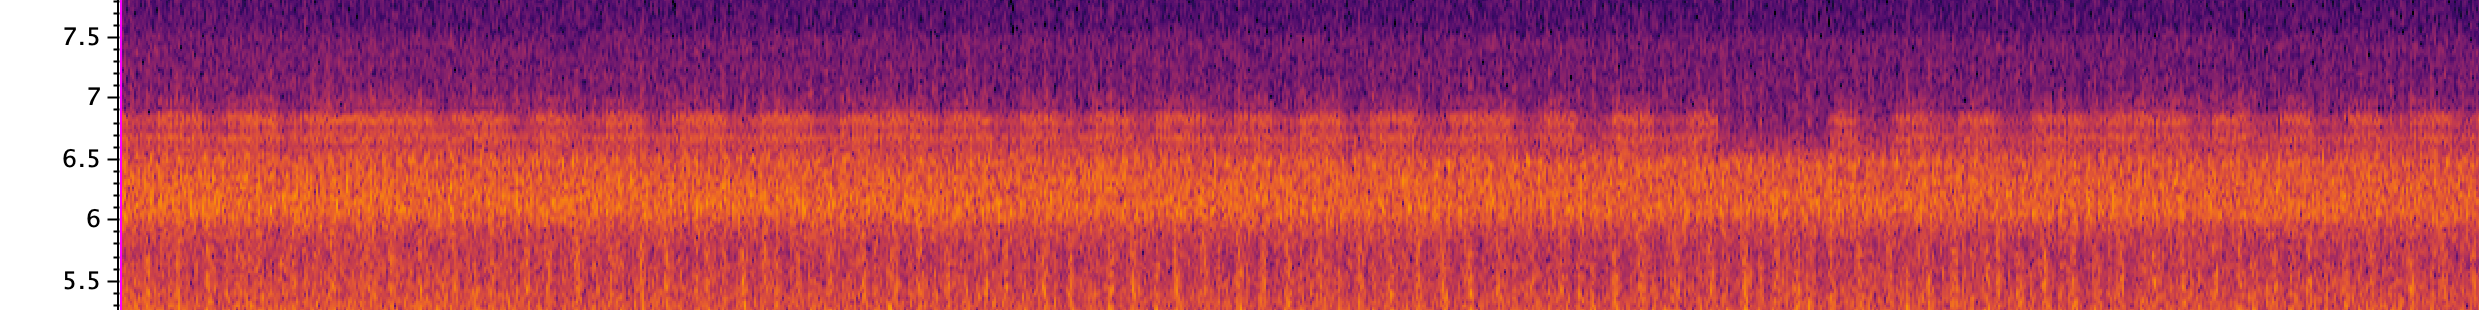
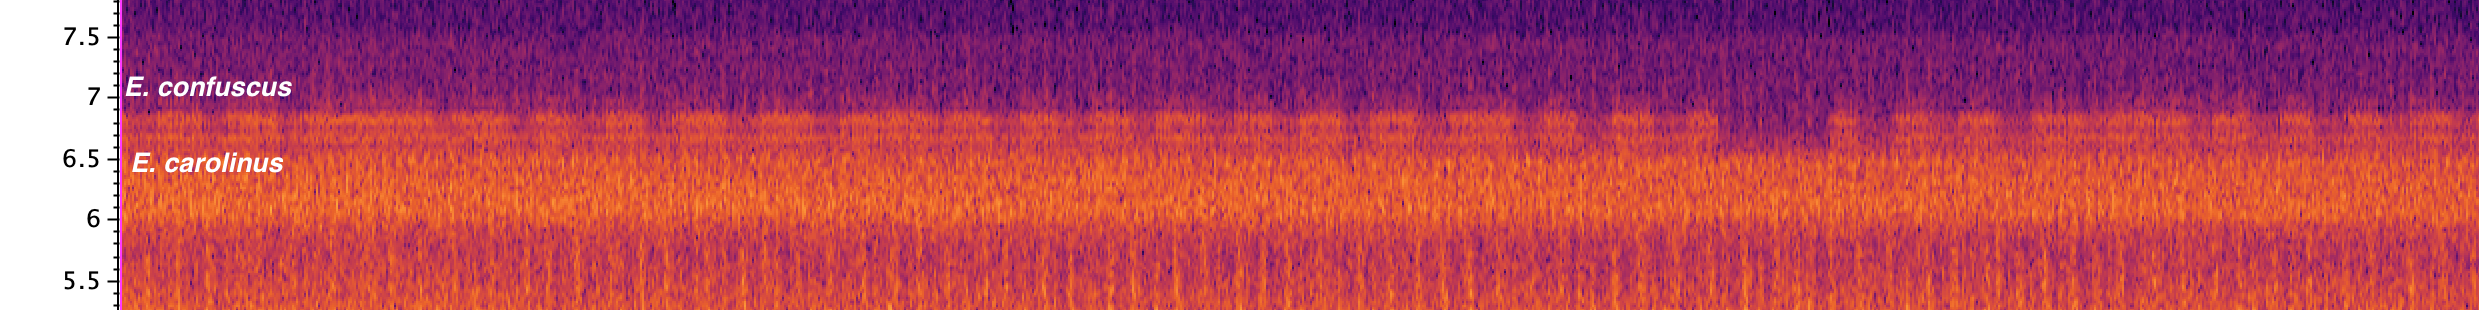
Built site for gh-pages

diff --git a/ID Blog.html b/ID Blog.html
@@ -370,78 +370,78 @@ ul.task-list li input[type="checkbox"] {
 
 
 <p><strong><code>*audio coming soon*</code></strong></p>
-<p>Orthopterans are deceivingly difficult to identify by sound. They are easy to annotate, because often their songs carry across an entire recording when viewed in sound analysis software like RavenPro, and there is often only 1-2 species occupying a given frequency niche (less noise and other taxa vocalizing at night). Species identification, however, is a different story. Unlike birds, many orthopterans seemingly share the same song. Between like-species the only identifiable information is typically buried in the frequency range, note morphology, chirp rate, or pulse rate of the species. I found it quite difficult to find this information in a single location. Rather, bioacoustics information for orthopterans was spread across different online resources.</p>
-<p>My hope is that this page will act as a resource for annotators on this project. In addition, this page is a collection of supported notes used to identify like-sounding species in eastern Texas for others to use.</p>
+<p>Orthopterans are deceivingly difficult to identify by sound. They are easy to annotate, because often their songs carry across an entire recording when viewed in sound analysis software like RavenPro. At least in our recording for eastern Texas, there are often only 1-2 species occupying a given frequency niche (less noise and other taxa vocalizing at night). Species identification, however, is a different story. Unlike birds, many orthopterans seemingly share the same song. Between like-species the only identifiable information is typically buried in the frequency range, note morphology, chirp rate, or pulse rate of the species. I found it quite difficult to find this information in a single location. Rather, bioacoustics information for Orthoptera was spread across different online resources.</p>
+<p>My hope is that this page will act as a resource for annotators on this project. The page is a simplified collection of my notes supported by other resources which are used to identify like-sounding Orthoptera species in eastern Texas.</p>
 <p><em>Note: mp3 examples coming soon. Embedding audio into Quarto websites is weird, and maybe impossible? TBD.</em></p>
 <section id="trilling-oecanthus-neoscapteriscus-borellii" class="level1">
 <h1>Trilling <em>Oecanthus</em> | <em>Neoscapteriscus borellii</em></h1>
-<p><em>N. borelli</em> (Southern mole cricket) and trilling <em>Oecanthus</em> (tree crickets) below 3 kHz should always be included as the alternative ID and vice versa. For the purposes of this project they are too similar to reliably provide a single ID, and they have very little information available that separates the two species at the resolution that we work with.</p>
-<p><em>Oecanthus</em> should be much more common than <em>N. borelli</em> . There are more species and therefore a higher probability for this genus to occur. Here are some clues that it might be <em>N. borelli</em>:</p>
-<p><em>N. borelli</em> is somewhat frog-like, and sounds like a “small mower” on the woodland floor or is described as bass-heavy. <em>Oecanthus</em> is more chime-like and melodic. <em>Oecanthus</em> will often chorus in a continuous trill at a standard frequency. Multiple <em>N. borelli</em> might call at once, but with distinct differences likely present. This is due to the way that they project their calls—the morphology of their burrows act as a bugle for their calls to project across the soundscape.</p>
-<p>According to current documentation, <em>N. borelli</em> will not deviate from a carrier frequency of 2.5-2.7 kHz. The latter is not helpful since <em>Oecanthus exclamationis</em> occupies this frequency range as well. Likewise, the pulse rates differ but our recordings are not of high enough resolution to parse apart most pulse rates in trills (~50-70 p/ch).&nbsp;</p>
+<p><strong>Just a refresher that the annotation tables for this project are set up with a Annotation column which gets the primary ID, and a Notes column which gets the secondary ID (if applicable).</strong></p>
+<p><em>N. borelli</em> (Southern mole cricket) and trilling <em>Oecanthus</em> (tree crickets) below 3 kHz should always be included as the alternative ID and vice versa. For the purposes of this project their song is too similar to reliably provide a single ID, and they have very little information available that separates the two species at the resolution that we work with.</p>
+<p>Trilling <em>Oecanthus</em> is much more common than <em>N. borelli</em> in the project recordings and should be receiving the primary ID most of the time. There are many co-occurring species in genus Oecanthus, each with minor differences in their song. Regardless, here are some clues that <em>N. borelli</em> could be singing:</p>
+<p><em>N. borelli</em> is somewhat frog-like, and sounds like a “small mower” on the woodland floor or is described as very bass-heavy. <em>Oecanthus</em> is more chime-like and melodic, however <em>O. exclamationis</em> does sound quite bass-heavy to me, but not as much as <em>N. borelli</em> . <em>Oecanthus</em> will often chorus in a continuous trill at a standard frequency. Multiple <em>N. borelli</em> might call at once, but with distinct differences likely present on the spectrogram because of the way that they project their calls. The morphology of their burrows act as a bugle for their calls to project across the soundscape which may cause slightly overlapped signals within 0.1-0.2 kHz of a single frequency range.</p>
+<p><em>N. borelli</em> will not deviate from a carrier frequency of 2.5-2.7 kHz. The latter is not helpful since <em>Oecanthus exclamationis</em> occupies this frequency range as well. Likewise, the pulse rates differ but our recordings are not of high enough resolution to parse apart most pulse rates in trills (~50-70 p/ch).&nbsp;Supposedly <em>N. borelli</em> will only sing during the first hour or two after sunset.</p>
+<p><strong>Summary</strong>: It will be Oecanthus 99% of the time from my experience, but technically there could be a chance that it is <em>N. borelli</em> if the song is under 2.9-3 kHz. I don’t have good enough ears to parse the songs apart, and the pulse rate is too difficult to view at our resolution.</p>
 </section>
 <section id="trilling-oecanthus-gryllus-rubens" class="level1">
 <h1>Trilling <em>Oecanthus</em> | <em>Gryllus rubens</em>&nbsp;</h1>
-<p>Trilling Oecanthus and Gryllus are reliably identifiable from each other by sound.</p>
-<p>The song of <em>Gryllus rubens</em> (Southeastern field cricket) is much drier than <em>Oecanthus</em> (tree crickets), which is more melodic and chime-like. The signal of <em>Gryllus rubens</em> is more broadband than <em>Oecanthus</em>, and looks like little slivers that span ~0.5-1 kHz in length. The <em>Oecanthus</em> signal is a single thin, often muffled continuous line of sound. The signal morphology might be masked by background noise, which is why the sound (dry versus melodic) should be used as well.</p>
+<p>Trilling Oecanthus and Gryllus can be reliably seperated by sound. The song of <em>Gryllus rubens</em> (Southeastern field cricket) is much drier than <em>Oecanthus</em> (tree crickets), which is more melodic and chime-like. The signal of <em>Gryllus rubens</em> is more broadband—appearing as little slivers (Fig 1). The <em>Oecanthus</em> signal is a single thin, often muffled continuous line of sound. The signal morphology might be masked by background noise, which is why the sound (dry versus melodic) should be used as well.</p>
 <div class="quarto-figure quarto-figure-center">
 <figure class="figure">
 <p><img src="images/like-species/Gryllus_rubens.png" class="img-fluid figure-img"></p>
-<figcaption>Fig 1. The stidulation pattern of Gryllus rubens.</figcaption>
+<figcaption>Fig 1. The stidulation pattern of <em>Gryllus rubens</em>.</figcaption>
 </figure>
 </div>
 <div class="quarto-figure quarto-figure-center">
 <figure class="figure">
 <p><img src="images/like-species/Oecanthus.png" class="img-fluid figure-img"></p>
-<figcaption>Fig 2. The stridulation pattern of three individual species in the genus <em>Oecanthus</em>. Notice the difference in morphology of the signals.</figcaption>
+<figcaption>Fig 2. The stridulation pattern of three individual trilling species in the genus <em>Oecanthus</em>. Notice the difference in signal morphology when compared to <em>G. rubens</em>.</figcaption>
 </figure>
 </div>
 </section>
 <section id="oecanthus-fultoni-velarifictorus-micado-gryllus-fultoni" class="level1">
 <h1><em>Oecanthus fultoni</em> | <em>Velarifictorus micado</em> | <em>Gryllus fultoni</em></h1>
-<p>Oh boy… this one gave me a headache. The SINA reference recording makes <em>Velarifictorus micado</em> (Japanese burrowing cricket) sound very similar to <em>Oecanthus fultoni</em> (Snow tree cricket) but this is rarely the case. I think the recordings are just short enough to mask the characteristic tells of <em>V. micado,</em> and a fast chirping <em>O. fultoni.</em> Nowhere does it discuss these two species sounding similar—instead <em>V. micado</em> and <em>Gryllus fultoni</em> (Southern wood cricket) are discussed as similar-sounding species. It wasn’t until I came across my own recordings that were so obviously <em>V. micado</em> that I started to piece together the reliable information for ID.</p>
-<p>Due to the variability in <em>O. fultoni</em> (Snowy tree cricket, aka the temperature cricket), these three species can occur very close in the frequency niche space. I’ve found that between <em>V. micado</em> and <em>O. fultoni</em> the note morphology looks similar.</p>
+<p>Oh boy… this one gave me a headache. The SINA reference recording makes <em>Velarifictorus micado</em> (Japanese burrowing cricket) sound very similar to <em>Oecanthus fultoni</em> (Snowy tree cricket) but this is rarely the case. I think the recordings are just short enough to mask the characteristic tells of <em>V. micado,</em> and a fast chirping <em>O. fultoni.</em> Nowhere does it discuss these two species sounding similar. Instead, <em>V. micado</em> and <em>Gryllus fultoni</em> (Southern wood cricket) are discussed as like-sounding species. It wasn’t until I came across our own recordings that were so obviously <em>V. micado</em> that I started to piece together the reliable information for ID.</p>
+<p>Due to the variability in <em>O. fultoni</em> ’s song (Snowy tree cricket, aka the temperature cricket), these three species can occur very close in the frequency niche space. I’ve found that between <em>V. micado</em> and <em>O. fultoni</em> the note morphology looks similar.</p>
 <div class="quarto-figure quarto-figure-center">
 <figure class="figure">
 <p><img src="images/like-species/fultoni_micado.png" width="700" height="100" class="figure-img"></p>
-<figcaption>Fig. A spectrogram image showing bth species:</figcaption>
+<figcaption>Fig 3. A spectrogram showing songs from <em>V. micado</em> (top)<em>,</em> and <em>O. fultoni</em> (bottom).</figcaption>
 </figure>
 </div>
-<p>I’ve found that <em>O. fultoni</em> gives a consistent and slightly melodic chirp, rarely breaking it’s tempo. <em>V. micado</em>’s tempo is FAST. However, this is not enough for an ID, since technically <em>O. fultoni</em> can reach a similar ch/s rate under high temperatures. In addition, the tempo of <em>V. micado</em> is regularly tripping over itself—starting and stopping in one bout of song, which I haven’t found <em>O. fultoni</em> to do in our recordings or any reference recordings. Also, <em>V. micado</em>’s chirp is drier than <em>O. fultoni,</em> sounding more like <em>Gryllus</em> than <em>Oecanthus</em>.</p>
-<p>Also, <em>V. micado</em> and <em>Gryllus fultoni</em> can sound very similar. They both have a dry chirp at similar frequencies that regularly trips over itself. <em>V. micado</em> is typically faster than <em>G. fultoni</em>, and when in doubt, a band frequency filter will reveal that <em>G. fultoni</em> has a characteristic 2-3 ps/ch and <em>V. micado</em> will have 5-6 ps/ch.</p>
+<p>I’ve found that <em>O. fultoni</em> gives a consistent and slightly melodic chirp, rarely breaking it’s tempo. <em>V. micado</em>’s tempo is FAST. However, this is not enough for an ID, since technically <em>O. fultoni</em> can reach a similar ch/s rate under high temperatures. Characteristically the tempo of <em>V. micado</em> is regularly tripping over itself—starting and stopping continuously in one bout of song, which I haven’t found <em>O. fultoni</em> to do in our recordings or any reference recordings. Also, <em>V. micado</em>’s chirp is drier than <em>O. fultoni,</em> sounding closer to <em>Gryllus</em> than <em>Oecanthus</em>.</p>
+<p><em>V. micado</em> and <em>Gryllus fultoni</em> can sound very similar. They both have a dry chirp at similar frequencies that regularly trips over itself. <em>V. micado</em> is typically faster than <em>G. fultoni</em>, and when in doubt, a band filter will reveal that <em>G. fultoni</em> has a characteristic 2-3 ps/ch and <em>V. micado</em> will have 5-6 ps/ch.</p>
 <div class="quarto-figure quarto-figure-center">
 <figure class="figure">
 <p><img src="images/like-species/gryllus_fultoni.png" class="img-fluid figure-img"></p>
-<figcaption>Fig 4. A dry chirp that could be <em>V. micado</em> or <em>G. fultoni</em> . A band filter showed that the chirp is reliably 3 ps/ch, which is indicative of <em>G. fultoni</em>.</figcaption>
+<figcaption>Fig 4. A dry chirp that could be <em>V. micado</em> or <em>G. fultoni</em> . A band filter shows that the chirp is reliably 3 ps/ch, which is indicative of <em>G. fultoni</em>.</figcaption>
 </figure>
 </div>
 <p>Xeno-canto observations for all three species and Strang’s Nature Inquiry post on <em>V. micado</em> were helpful here.</p>
 </section>
 <section id="gryllus-pennsylvanicus-gryllus-fultoni" class="level1">
 <h1><em>Gryllus pennsylvanicus</em> | <em>Gryllus fultoni</em></h1>
-<p>The song of <em>Gryllus fultoni</em> (Southern wood cricket) is inconsistent and trips over itself, thereby making it sometimes confusing to separate with <em>V. micado.</em> However, <em>Gryllus pennsylvanicus</em> (Fall field cricket) is the quintessential cricket. It will have the characteristic dry tone of <em>Gryllus,</em> butI’ve found that the tempo is more even-paced than <em>G.</em> <em>fultoni</em>. Basically the same case that I made for <em>O. fultoni</em> and <em>V. micado.</em> For the purposes of this project, I’ve found many more <em>G.</em> <em>fultoni</em> in our recordings than <em>G. pennsylvanicus</em>. <em>G. pennsylvanicus</em>’sgeographicrange is just on the edge of our sampling region.</p>
+<p>The song of <em>Gryllus fultoni</em> (Southern wood cricket) is inconsistent and trips over itself, thereby making it sometimes confusing to separate with <em>V. micado.</em> However, <em>Gryllus pennsylvanicus</em> (Fall field cricket) is the quintessential cricket. It will have the characteristic dry tone of <em>Gryllus,</em> but I’ve found that the tempo is more even-paced than <em>G.</em> <em>fultoni</em>. Basically the same case that I made for <em>O. fultoni</em> and <em>V. micado.</em> For the purposes of this project, I’ve found many more <em>G.</em> <em>fultoni</em> in our recordings than <em>G. pennsylvanicus</em>. <em>G. pennsylvanicus</em>’s geographic range is just on the edge of our sampling region.</p>
 </section>
 <section id="allonemobius-tinnulus-anaxipha-tinnulenta" class="level1">
 <h1><em>Allonemobius tinnulus</em> | <em>Anaxipha tinnulenta</em></h1>
-<p>This issue didn’t appear until I was 1,250 recordings into annotating training data. The range map on SINA for <em>Allonemobius tinnulus</em> (Tinkling ground cricket) shows a range that is not within our sampling region, but the Song of Insects database begs to differ. Upon listening and reading about these two species it became clear they could not be identified by sound alone…uh oh. Thankfully, the naturalist records of Carl Strang came in handy yet again—Carl is a naturalist in Illinois whom I’ve never met, but his accounts of singing insects is a huge help for many of our Texas orthopterans whose ranges extend across Illinois and Texas. I’ll probably reference Carl’s naturalist records—<a href="https://natureinquiries.wordpress.com/">Nature Inquiries</a>—a couple times throughout this page.</p>
-<p>For these two species see Carl’s <a href="https://natureinquiries.wordpress.com/2021/09/15/tinklers/">blog post</a>. Basically, he surmised that the note morphology can separate the two species. This will leave out some low-quality signals but will at least help annotators capture higher-quality signals from these two species for our CNN model. Check out the spectrogram below:</p>
+<p>This issue didn’t appear until I was 1,250 recordings into annotating training data. The range map on SINA for <em>Allonemobius tinnulus</em> (Tinkling ground cricket) shows a range that is not within our sampling region, but the Song of Insects database begs to differ. Upon listening and reading about these two species it became clear they could not be identified by sound alone…uh oh. Thankfully, the naturalist records of Dr.&nbsp;Carl Strang came in handy yet again—Carl is a naturalist in Illinois whom I’ve never met, but his records on singing insects is a huge help for many of our Texas orthopterans whose ranges extend across Illinois and Texas. I’ll probably reference Carl’s naturalist blog—<a href="https://natureinquiries.wordpress.com/">Nature Inquiries</a>—a couple times throughout this page.</p>
+<p>See this <a href="https://natureinquiries.wordpress.com/2021/09/15/tinklers/">blog post</a>. The note morphology can separate the two species, but only for high quality signals. This will leave out some low-quality signals but will at least help annotators capture high-quality signals from these two species for our CNN model.</p>
 <div class="quarto-figure quarto-figure-center">
 <figure class="figure">
 <p><img src="images/like-species/tinkling.png" class="img-fluid figure-img" width="428"></p>
-<figcaption>Fig 5. The large notes are <em>A. tinnulenta</em> (Slow-tinkling trig), which are more horizontal with a downward tail and the small notes are <em>A.tinnulus</em> (Tinkling ground cricket), which do not have a pronounced horizontal portion and appear arched with a longer downward tail relative to the note size. <em>Photo credit: Carl Strang, Nature Inquiries 2021).</em></figcaption>
+<figcaption>Fig 5. The large notes are <em>A. tinnulenta</em> (Slow-tinkling trig), which are more horizontal with a downward tail and the smaller notes are <em>A.tinnulus</em> (Tinkling ground cricket), which do not have a pronounced horizontal portion and appear arched with a longer downward tail relative to the note size. <em>Photo credit: Carl Strang, Nature Inquiries 2021).</em></figcaption>
 </figure>
 </div>
 </section>
 <section id="cycloptilum-cyrtoxipha-columbiana" class="level1">
 <h1>Cycloptilum | Cyrtoxipha columbiana</h1>
-<p><em>Cycloptilum</em> (scaly crickets) and <em>Cyrtoxipha columbiana</em> (Columbian trig) are similar sounding species that occur in the same frequency range (~6.4-6.9 kHz). <em>Cyrtoxipha columbiana</em> has a song that is more melodic or chime-like than <em>Cycloptilum</em>’s silvery and dry song. However, this is not enough to reliably tell them apart in my opinion. To be safe I look at the waveform to count the pulse rate per chirp because it’s an easy tell.</p>
+<p><em>Cycloptilum</em> (scaly crickets) and <em>Cyrtoxipha columbiana</em> (Columbian trig) are similar sounding taxa that occur in the same frequency range (~6.4-6.9 kHz). <em>C. columbiana</em> has a song that is more melodic or chime-like than <em>Cycloptilum</em>’s silvery and dry song. However, this is not enough to reliably tell them apart in my opinion. To be safe I look at the waveform to count the pulse rate per chirp because it’s an easy tell. The key feature to look for: <em>C. Columbiana</em> has ~5 pulses per chirp (ps/ch) and <em>Cycloptilum</em> reliably has 2 ps/ch.</p>
 <div class="quarto-figure quarto-figure-center">
 <figure class="figure">
 <p><img src="images/like-species/Cycloptilum.png" class="img-fluid figure-img"></p>
-<figcaption>Fig 6. An image of a chirping species that occurs anywhere from ~5.5-6.6 kHz which could be <em>C. Columbiana</em> or <em>Cycloptilum.</em> Check the waveform!</figcaption>
+<figcaption>Fig 6. An image of a chirping species that occurs anywhere from ~5.5-6.6 kHz which could be <em>C. Columbiana</em> or <em>Cycloptilum.</em> Check the waveform, which will show an oscillogram to view signal change over time! Use a band filter to view the specific signal in question.</figcaption>
 </figure>
 </div>
-<p>The key feature to look for: <em>C. Columbiana</em> has ~5 pulses per chirp (ps/ch) and <em>Cycloptilum</em> reliably has 2 ps/ch.</p>
 <div class="quarto-figure quarto-figure-center">
 <figure class="figure">
 <p><img src="images/like-species/Cycloptilum_wave.png" class="img-fluid figure-img"></p>
@@ -454,44 +454,45 @@ ul.task-list li input[type="checkbox"] {
 <figcaption>Fig 8. Not the best image (I will update when I come across a better recording) but this is the filtered waveform of a chirp within the Cycloptilum/Cyrtoxipha frequency range that belongs to Cyrtoxipha. Notice that there is no clear 2 ps/ch pattern, rather there is ~5-6 ps/ch (ignoring the noise).</figcaption>
 </figure>
 </div>
-<p>In eastern Texas, we have <em>Cycloptilum squamosum</em> and <em>Cycloptilum comprehendens</em>. Both have 2 ps/ch and occupy the same frequency range. Unfortunately, there is very little information about these two species. I’ve found 1 reference recording for each—please reach out if you have more examples! It appears that <em>C. comprehendens</em> might have more of a two-step tempo than <em>C. squamosum</em>, but I know nothing about the variability of these two species’ songs due to the limited data that is available. For now, I annotate these songs as <em>Cycloptilum.</em> Not as specific as I’d like to get but it’s accurate, based on the current information and still speaks to the functional diversity present at our field sites.</p>
+<p>In eastern Texas, we have <em>Cycloptilum squamosum</em> and <em>Cycloptilum comprehendens</em>. Both have 2 ps/ch and occupy the same frequency range. Unfortunately, there is very little information about these two species. I’ve found 1 reference recording for each (please reach out if you have more examples!). It appears that <em>C. comprehendens</em> might have more of a two-step tempo than <em>C. squamosum</em>, but I know nothing about the variability of these two species’ songs due to the limited data that is available. For now, I annotate these songs as <em>Cycloptilum.</em> Not as specific as I’d like to get but it’s accurate, based on the current information and still speaks to the functional diversity present at our field sites.</p>
 </section>
 <section id="eunemobius-carolinus-eunemobius-melodius-eunemobius-confusus-anurogryllus-arboreus" class="level1">
 <h1><em>Eunemobius carolinus</em> | <em>Eunemobius melodius</em> | <em>Eunemobius confusus</em> | <em>Anurogryllus arboreus</em></h1>
-<p>These species were actually quite simple to separate once I developed an ear for Orthoptera songs. <em>Eunemobius carolinus</em> (Carolina ground cricket) will be the most common. This species is widespread and calls loudly throughout the day and night.</p>
-<p>First let’s discuss <em>E. carolinus</em> and <em>E. melodius</em> (Melodius ground cricket). <em>E. carolinus</em> should be a lot more common than <em>E. melodius.</em> It is a widespread and common species already, and <em>E. melodius</em>’s geographic range is just on the edge of our field sites. That being said I’ve come across both species in our recordings.</p>
-<p>The most important identifier: <em>E. carolinus</em>’s song is VERY dry. The song of <em>E. melodius</em> follows its namesake—very melodic and bell-like, similar to a high-frequency <em>Oecanthus</em>. I’ve also found the <em>E. carolinus</em> signal to be fuzzier than <em>E. melodius,</em> although this is probably because there’s more <em>E. carolinus</em> around to chorus all at once, creating a lot of noise and reverberations around the signal.</p>
+<p>These species were actually quite simple to separate once I developed an ear for Orthoptera songs. <em>Eunemobius carolinus</em> (Carolina ground cricket) is the most common. This species is geographically widespread and calls loudly throughout the day and night.</p>
+<p>First let’s discuss <em>E. carolinus</em> and <em>E. melodius</em> (Melodius ground cricket). <em>E. carolinus</em> should be a lot more common than <em>E. melodius.</em> It is a common species already, and <em>E. melodius</em>’s geographic range is just on the edge of our field sites. That being said I’ve come across both species in our recordings.</p>
+<p>The most important identifier: <em>E. carolinus</em>’s song is VERY dry. The song of <em>E. melodius</em> follows its namesake—very melodic and bell-like, similar to a high-frequency <em>Oecanthus</em>. I’ve also found <em>E. carolinus</em>’s signal to be fuzzier than <em>E. melodius,</em> although this is probably because there’s more <em>E. carolinus</em> around to chorus all at once, creating a lot of reverberations around the signal.</p>
 <div class="quarto-figure quarto-figure-center">
 <figure class="figure">
 <p><img src="images/like-species/Eunemobius_melodius.png" class="img-fluid figure-img"></p>
-<figcaption>Fig 9. An image of <em>Eunemobius melodius</em>’s song in the spectrogram.</figcaption>
+<figcaption>Fig 9. An image of <em>Eunemobius melodius</em>’s song in the spectrogram across a 1-minute recording.</figcaption>
 </figure>
 </div>
-<p><em>E. confusus</em> (Confused ground cricket) and <em>E. carolinus</em> (Carolina ground cricket) both have a dry song. It’s sometimes tricky, because <em>E. carolinus</em> sometimes pulsates and sputters like <em>E. confusus.</em> However, <em>E. confusus</em> is true to its namesake. It sounds really confused—starting and stopping, sputtering - stopping for seconds on end before starting again; maybe a slight ticking at its startup. <em>E. carolinus</em> won’t do this—even if its song may pulsate and sputter, it still carries on without continuous stopping.</p>
+<p><em>E. confusus</em> (Confused ground cricket) and <em>E. carolinus</em> (Carolina ground cricket) both have a dry song. It’s sometimes tricky, because <em>E. carolinus</em> will pulsatee and sputter like <em>E. confusus.</em> However, <em>E. confusus</em> is true to its namesake. It sounds really confused—starting and stopping, sputtering - stopping for seconds on end before starting again; maybe a slight ticking at its start up. <em>E. carolinus</em> won’t do this—even if its song may pulsate and sputter, it still carries on without continuous stopping.</p>
 <div class="quarto-figure quarto-figure-center">
 <figure class="figure">
 <p><img src="images/like-species/carolinus_confuscus.png" class="img-fluid figure-img"></p>
-<figcaption>Fig 10. An example of <em>E. confusus</em> (top signal) and <em>E. carolinus</em> (bottom signal). While both having dry songs in similar frequency ranges, <em>E. confusus</em> is inconsistent and sputtering throughout.</figcaption>
+<figcaption>Fig 10. An example of <em>E. confusus</em> (top signal) and <em>E. carolinus</em> (bottom signal). While both having dry songs in similar frequency ranges, <em>E. confusus</em> is inconsistent and sputtering throughout. Both species names are positioned at the top of their signal.</figcaption>
 </figure>
 </div>
-<p>There might be some debate about whether low-sining <em>Anaxipha exigua</em> (read below) perhaps on a cold day could be mistaken for <em>E. melodius.</em> In most cases their frequency ranges should not overlap. <em>*more on this to come!</em></p>
+<p>There might be some debate about whether <em>Anaxipha exigua</em> (read below) singing ar low tempertaures could be mistaken for <em>E. melodius.</em> In most cases their frequency ranges should not overlap. <em>*more on this to come!</em></p>
 <p>Last, <em>E. carolinus</em> and <em>Anurogryllus arboreus</em> (Common short-tailed cricket) can sound similar—both give a dry trill. Their frequency ranges should not overlap, but just in case they do an easy identifier is <em>E. carolinus</em>’s sputtering and pulsating trill (almost drone-like) versus <em>A. arboreus</em>’s consistent trill. Also, <em>A. arboreus</em> is reported to only sing right after sunset (0.5-1 hour).</p>
 <p><u>Here is a brief overview of these four species in order from lower to higher suspected carrier frequency:</u></p>
 <ul>
-<li><em>A. arboreus:</em> Dry and continuous trill. Does not pulsate or sputter. Sings immediately after sunset.</li>
+<li>All sing between 5.6-6.7 kHz.</li>
 </ul>
 <!-- -->
 <ul>
-<li><p><em>E. carolinus:</em> Frequent singer. Drone-like trill that pulsates and sputters continuously.</p></li>
-<li><p><em>E. melodius:</em> Not very common. Melodic and bell-like trill that can start and stop again. Can be similar to <em>A. exigua</em> but isn’t reported to have the “chuwee” beginning and shouldn’t reach the frequency range of <em>A. exigua</em>.</p></li>
-<li><p><em>E. confusus:</em> Continuous sputtering and stopping. Trilling and stop lengths are inconsistent.</p></li>
+<li><em>A. arboreus:</em> Dry and continuous trill. Does not pulsate or sputter. Sings immediately after sunset.</li>
+<li><em>E. carolinus:</em> Frequent singer. Drone-like trill that pulsates and sputters continuously.</li>
+<li><em>E. melodius:</em> Not very common. Melodic and bell-like trill that can start and stop again. Can be similar to <em>A. exigua</em> but isn’t reported to have the “chuwee” beginning and shouldn’t reach the frequency range of <em>A. exigua</em>.</li>
+<li><em>E. confusus:</em> Continuous sputtering and stopping. Trilling and stop lengths are inconsistent.</li>
 </ul>
 <p>Here is a fantastic comparison of the ground singing orthopterans: <a href="https://www.listeningtoinsects.com/ground-cricket-introduction">link</a>.</p>
 </section>
 <section id="anaxipha-exigua-neonemobius-variegatus-neonemobius-cubensis" class="level1">
 <h1><em>Anaxipha exigua</em> | <em>Neonemobius variegatus</em> | <em>Neonemobius cubensis</em></h1>
-<p>Please see the Nature Inquiries post <a href="https://natureinquiries.wordpress.com/2018/11/01/the-tiny-ones/">one</a> and <a href="https://natureinquiries.wordpress.com/2015/01/16/sound-ideas-variegated-and-cuban-ground-crickets/">two</a> about these species. It does a better job than I can at describing the subtle sound differences between these species.</p>
-<p>Basic things to remember: All three species crescendo—their songs start lower than their peak frequency and slowly pitch up as they sing to make a horizontal asymptote. <em>A.</em> <em>exigua</em> (Say’s trig) is common and LOUD. Many sources report it as being quite obnoxious with a bell-like sound. <em>N. variegatus</em> (Variegated ground cricket) and <em>N. cubensis</em> (Cuban ground cricket) are quieter and have a silvery sound. The key to <em>A.</em> <em>exigua</em> is that it crescendos like the other two species but at the start listen closely for a “<em>chuwee</em>” sound, similar to a motor starting up. Based on the</p>
+<p>Please see the Nature Inquiries post <a href="https://natureinquiries.wordpress.com/2018/11/01/the-tiny-ones/">one</a> and <a href="https://natureinquiries.wordpress.com/2015/01/16/sound-ideas-variegated-and-cuban-ground-crickets/">two</a> about these species. It does a better job than I can at describing the subtle sound differences between the species.</p>
+<p>Basic things to remember: All three species crescendo—their songs start lower than their peak frequency and slowly pitch up as they sing to make a horizontal asymptote. <em>A.</em> <em>exigua</em> (Say’s trig) is common and LOUD. Many sources report it as being quite obnoxious with a bell-like sound. <em>N. variegatus</em> (Variegated ground cricket) and <em>N. cubensis</em> (Cuban ground cricket) are quieter and have a silvery sound. The key to <em>A.</em> <em>exigua</em> is that it crescendos like the other two species but at the start listen closely for a “<em>chuwee</em>” sound, similar to a motor starting up.</p>
 <p>Here is a fantastic comparison of the ground singing orthopterans: <a href="https://www.listeningtoinsects.com/ground-cricket-introduction">link</a>.</p>
 <p><img src="images/cricket.jpg" class="img-fluid"></p>
 
